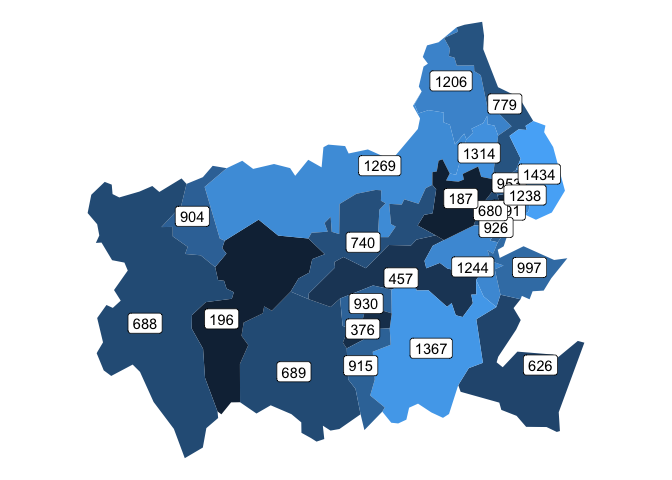
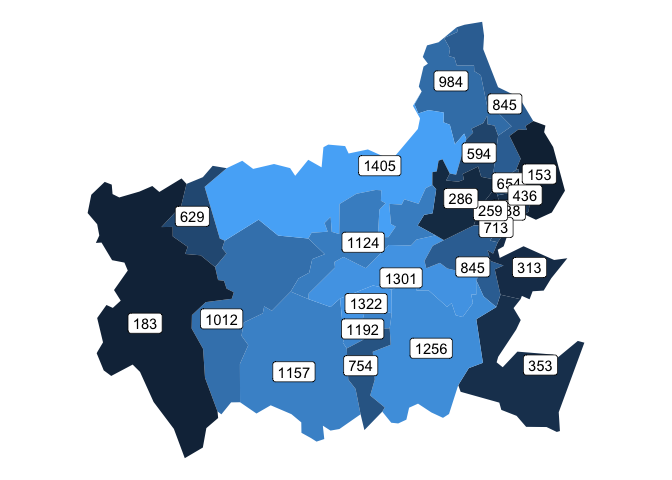
readme update

Changed region(s): [[0.125, 0.0625, 0.875, 0.9688], [0.625, 0.7188, 0.6875, 0.75]]

diff --git a/README.md b/README.md
@@ -59,7 +59,7 @@ Accessing a dataset can be done two ways.
 By namespace, without loading the whole library
 
 ``` r
-wardboundaries::dec2022
+wardboundaries::wards_dec2022
 #> Simple feature collection with 8483 features and 12 fields
 #> Geometry type: MULTIPOLYGON
 #> Dimension:     XY
@@ -88,7 +88,7 @@ Or by loading the whole library
 ``` r
 library(wardboundaries)
 
-dec2022
+wards_dec2022
 #> Simple feature collection with 8483 features and 12 fields
 #> Geometry type: MULTIPOLYGON
 #> Dimension:     XY
@@ -120,9 +120,9 @@ this as a choropleth with ggplot2 is nice and straightforward
 ``` r
 # Make some random numbers that represent a demographic dataset 
 demo_data <- tibble::tibble(
-  WD22CD = dplyr::pull(wardboundaries::dec2022, WD22CD),
+  WD22CD = dplyr::pull(wardboundaries::wards_dec2022, WD22CD),
   number_of_ducks = sample(
-    150:1500, nrow(wardboundaries::dec2022), replace = TRUE
+    150:1500, nrow(wardboundaries::wards_dec2022), replace = TRUE
     )
 )
 
@@ -130,23 +130,23 @@ demo_data
 #> # A tibble: 8,483 × 2
 #>    WD22CD    number_of_ducks
 #>    <chr>               <int>
-#>  1 E05000650             608
-#>  2 E05000651             456
-#>  3 E05000652            1490
-#>  4 E05000653             984
-#>  5 E05000654            1423
-#>  6 E05000655            1002
-#>  7 E05000656             263
-#>  8 E05000657             725
-#>  9 E05000658             188
-#> 10 E05000659            1305
+#>  1 E05000650            1358
+#>  2 E05000651             848
+#>  3 E05000652            1011
+#>  4 E05000653             325
+#>  5 E05000654             784
+#>  6 E05000655             539
+#>  7 E05000656            1320
+#>  8 E05000657             284
+#>  9 E05000658             548
+#> 10 E05000659             787
 #> # … with 8,473 more rows
 ```
 
 ``` r
 # Join the datasets together
 ducks_per_ward <- dplyr::left_join(
-  wardboundaries::dec2022,
+  wardboundaries::wards_dec2022,
   demo_data, 
   by = dplyr::join_by(WD22CD)
 )
@@ -244,8 +244,9 @@ If you have more complex requirements then I recommend checking out
 beyond the simple local authority / ward scenario and have boundaries
 for larger hierarchies, lookup tables, NHS point data, etc. Each dataset
 in **geographr** is slimmed down to the essential variables, so you may
-have to stitch different datasets together. I only ever need LAD to
-Ward, and that’s the main reason **wardboundaries** exists.
+have to stitch different datasets together. Another important note is
+that the polygons are highly simplified, whereas **wardboundaries**
+offers up to 20m resolution.
 
 ### Trafford lab API post
 
